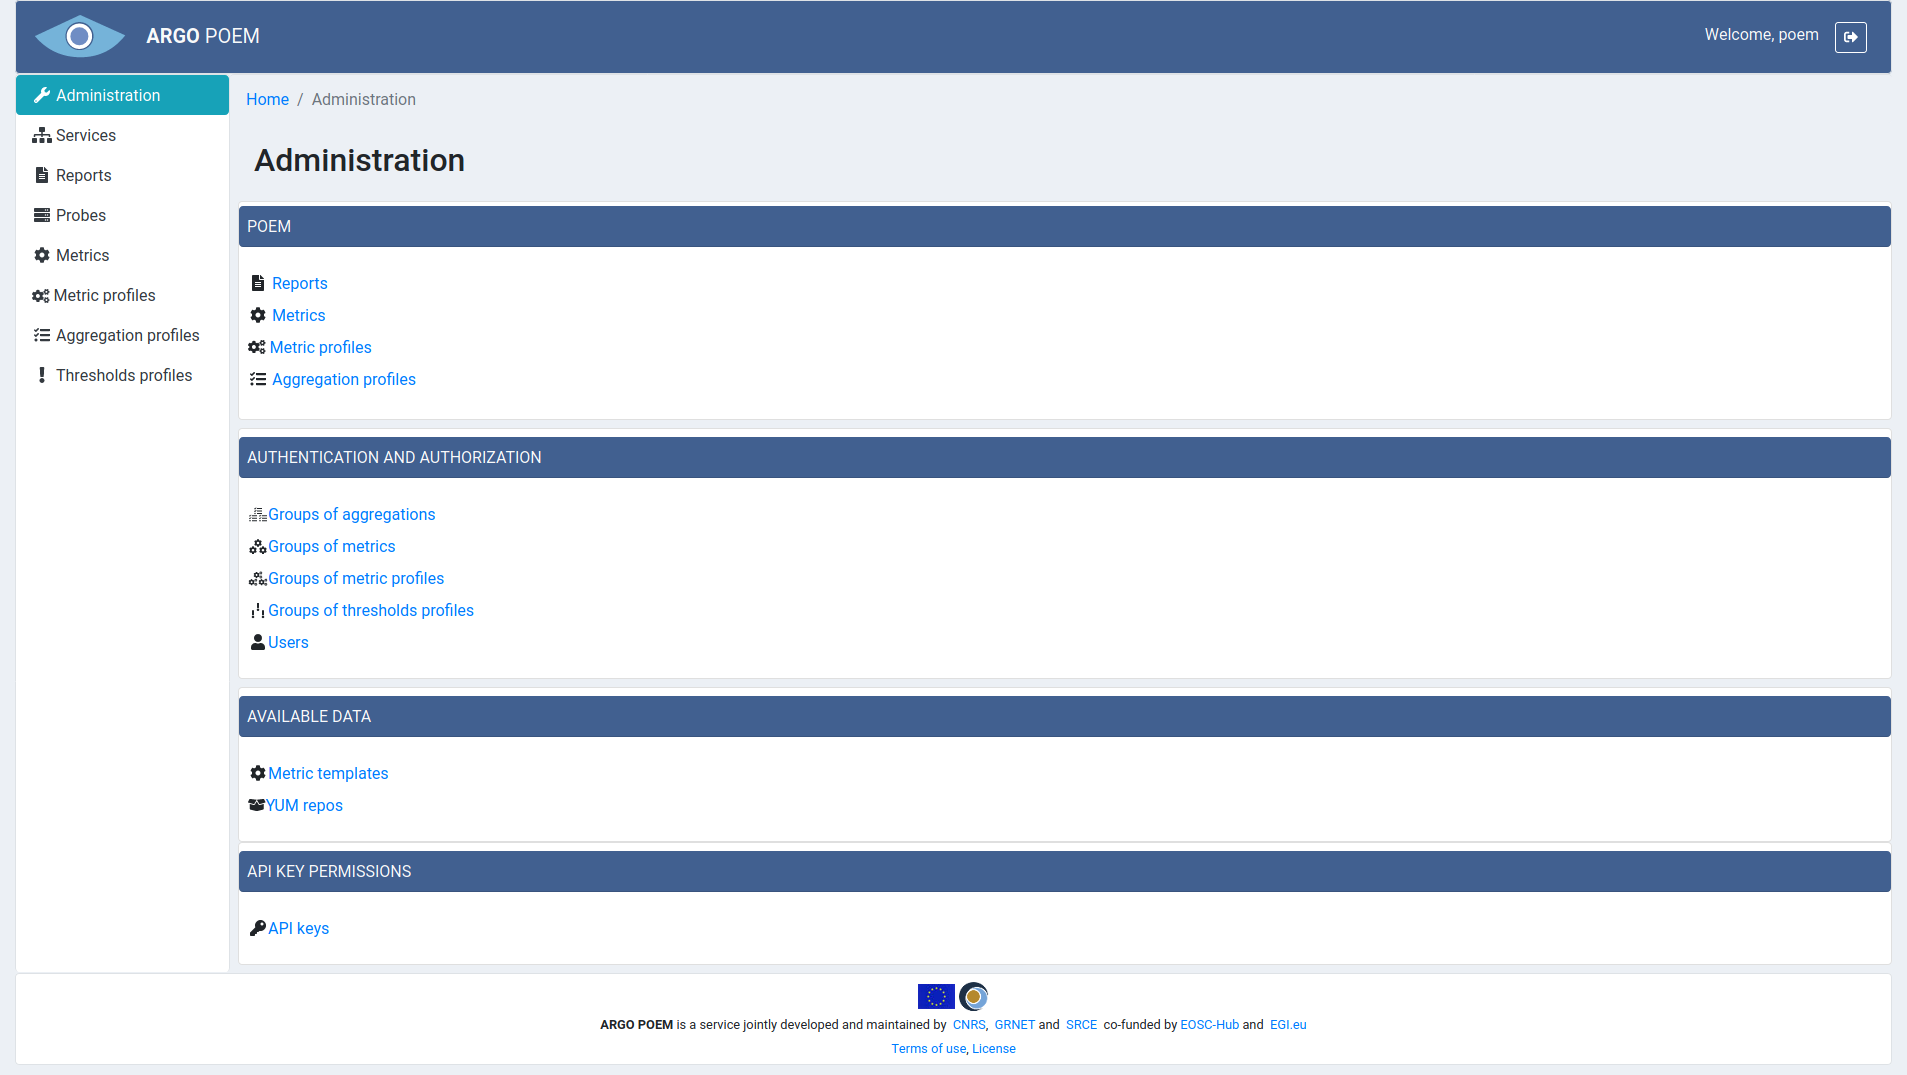
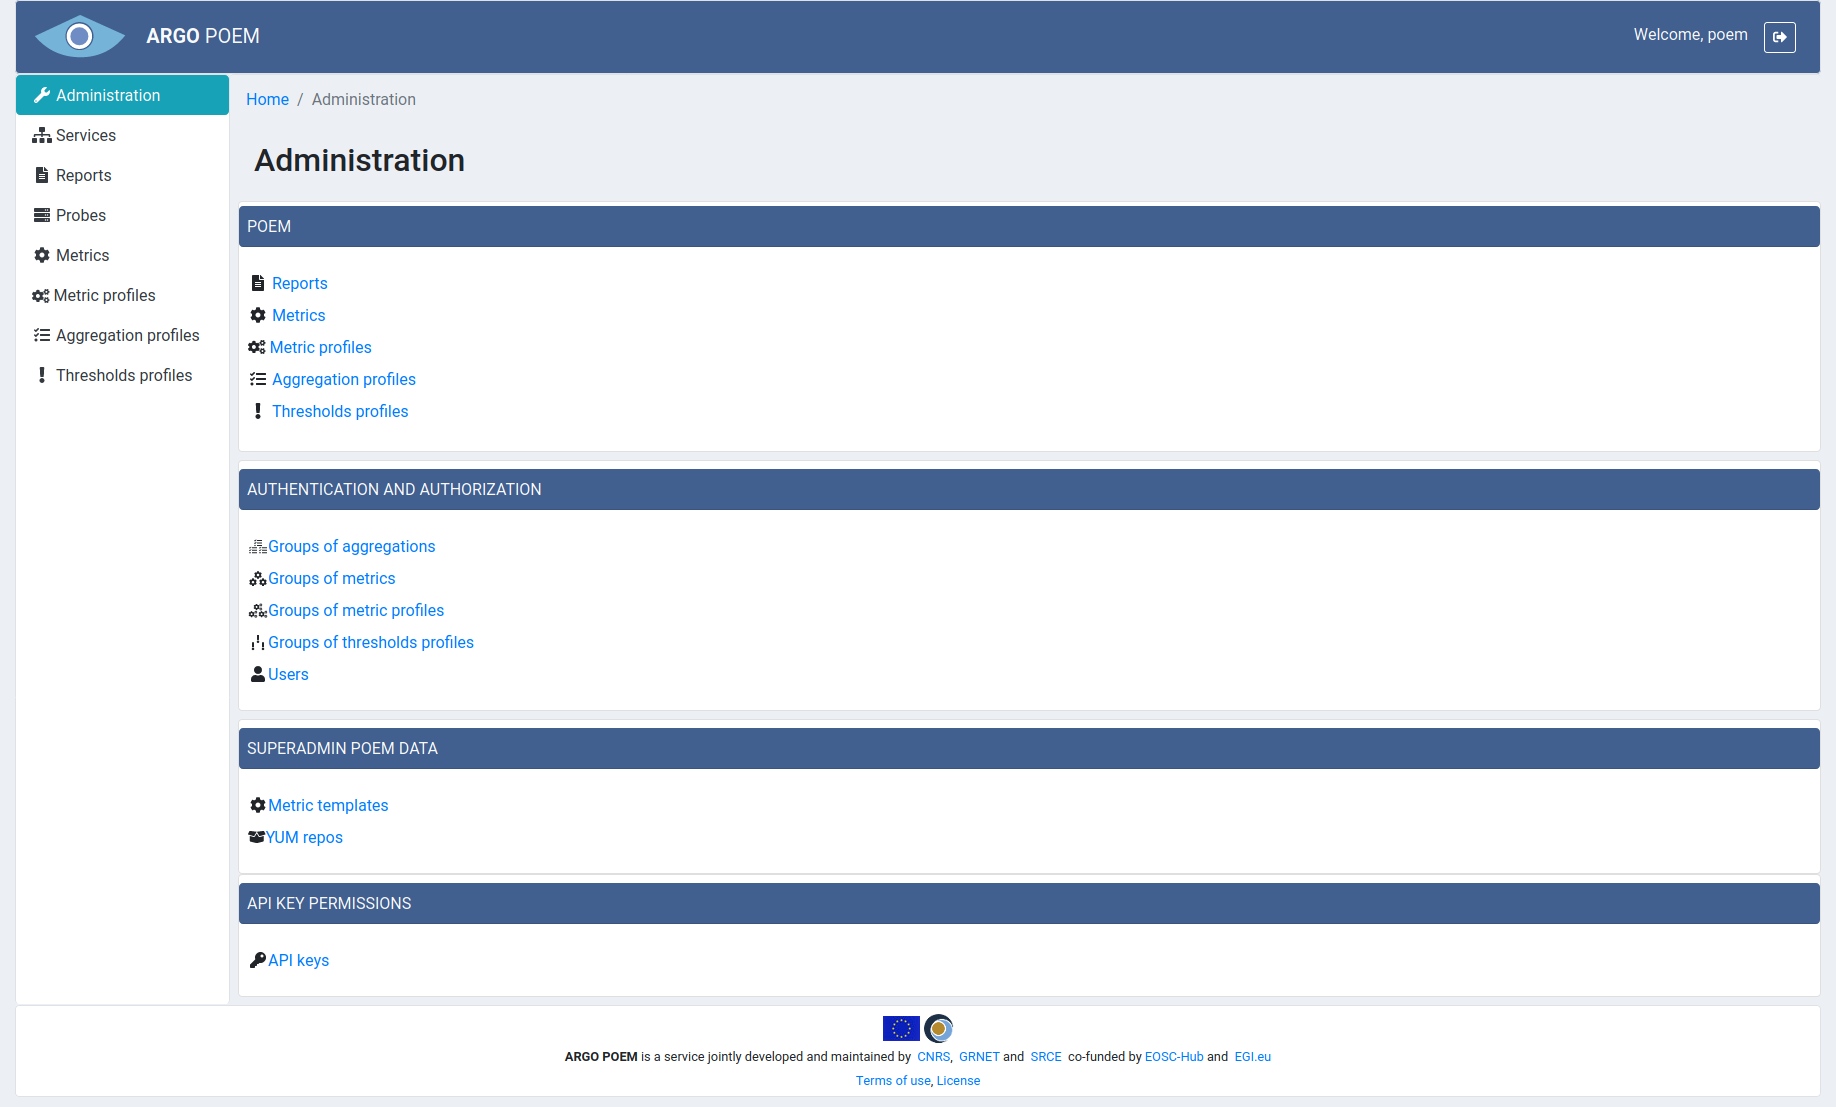
updated tenant administration image and text

Changed region(s): [[0.0, 0.0, 0.9935, 0.8902], [0.3105, 0.8902, 0.683, 0.9823], [0.9003, 0.0307, 0.9935, 0.0614]]

diff --git a/doc/tenant_administration.md b/doc/tenant_administration.md
@@ -7,6 +7,6 @@ First section are links to component pages users are allowed to modify. They are
 
 Second section, **Authentication and authorization**, is only available through Administration page, and therefore, only superusers can modify them.
 
-Third section, **Available data**, are pages of read-only resources. They are set up through SuperAdmin POEM UI, and tenant users are not allowed to modify them.
+Third section, **SuperAdmin POEM data**, are pages of read-only resources. They are set up through SuperAdmin POEM UI, and tenant users are not allowed to modify them.
 
 In fourth section, **APIKey Permissions**, users are able to see API keys for tenant.
